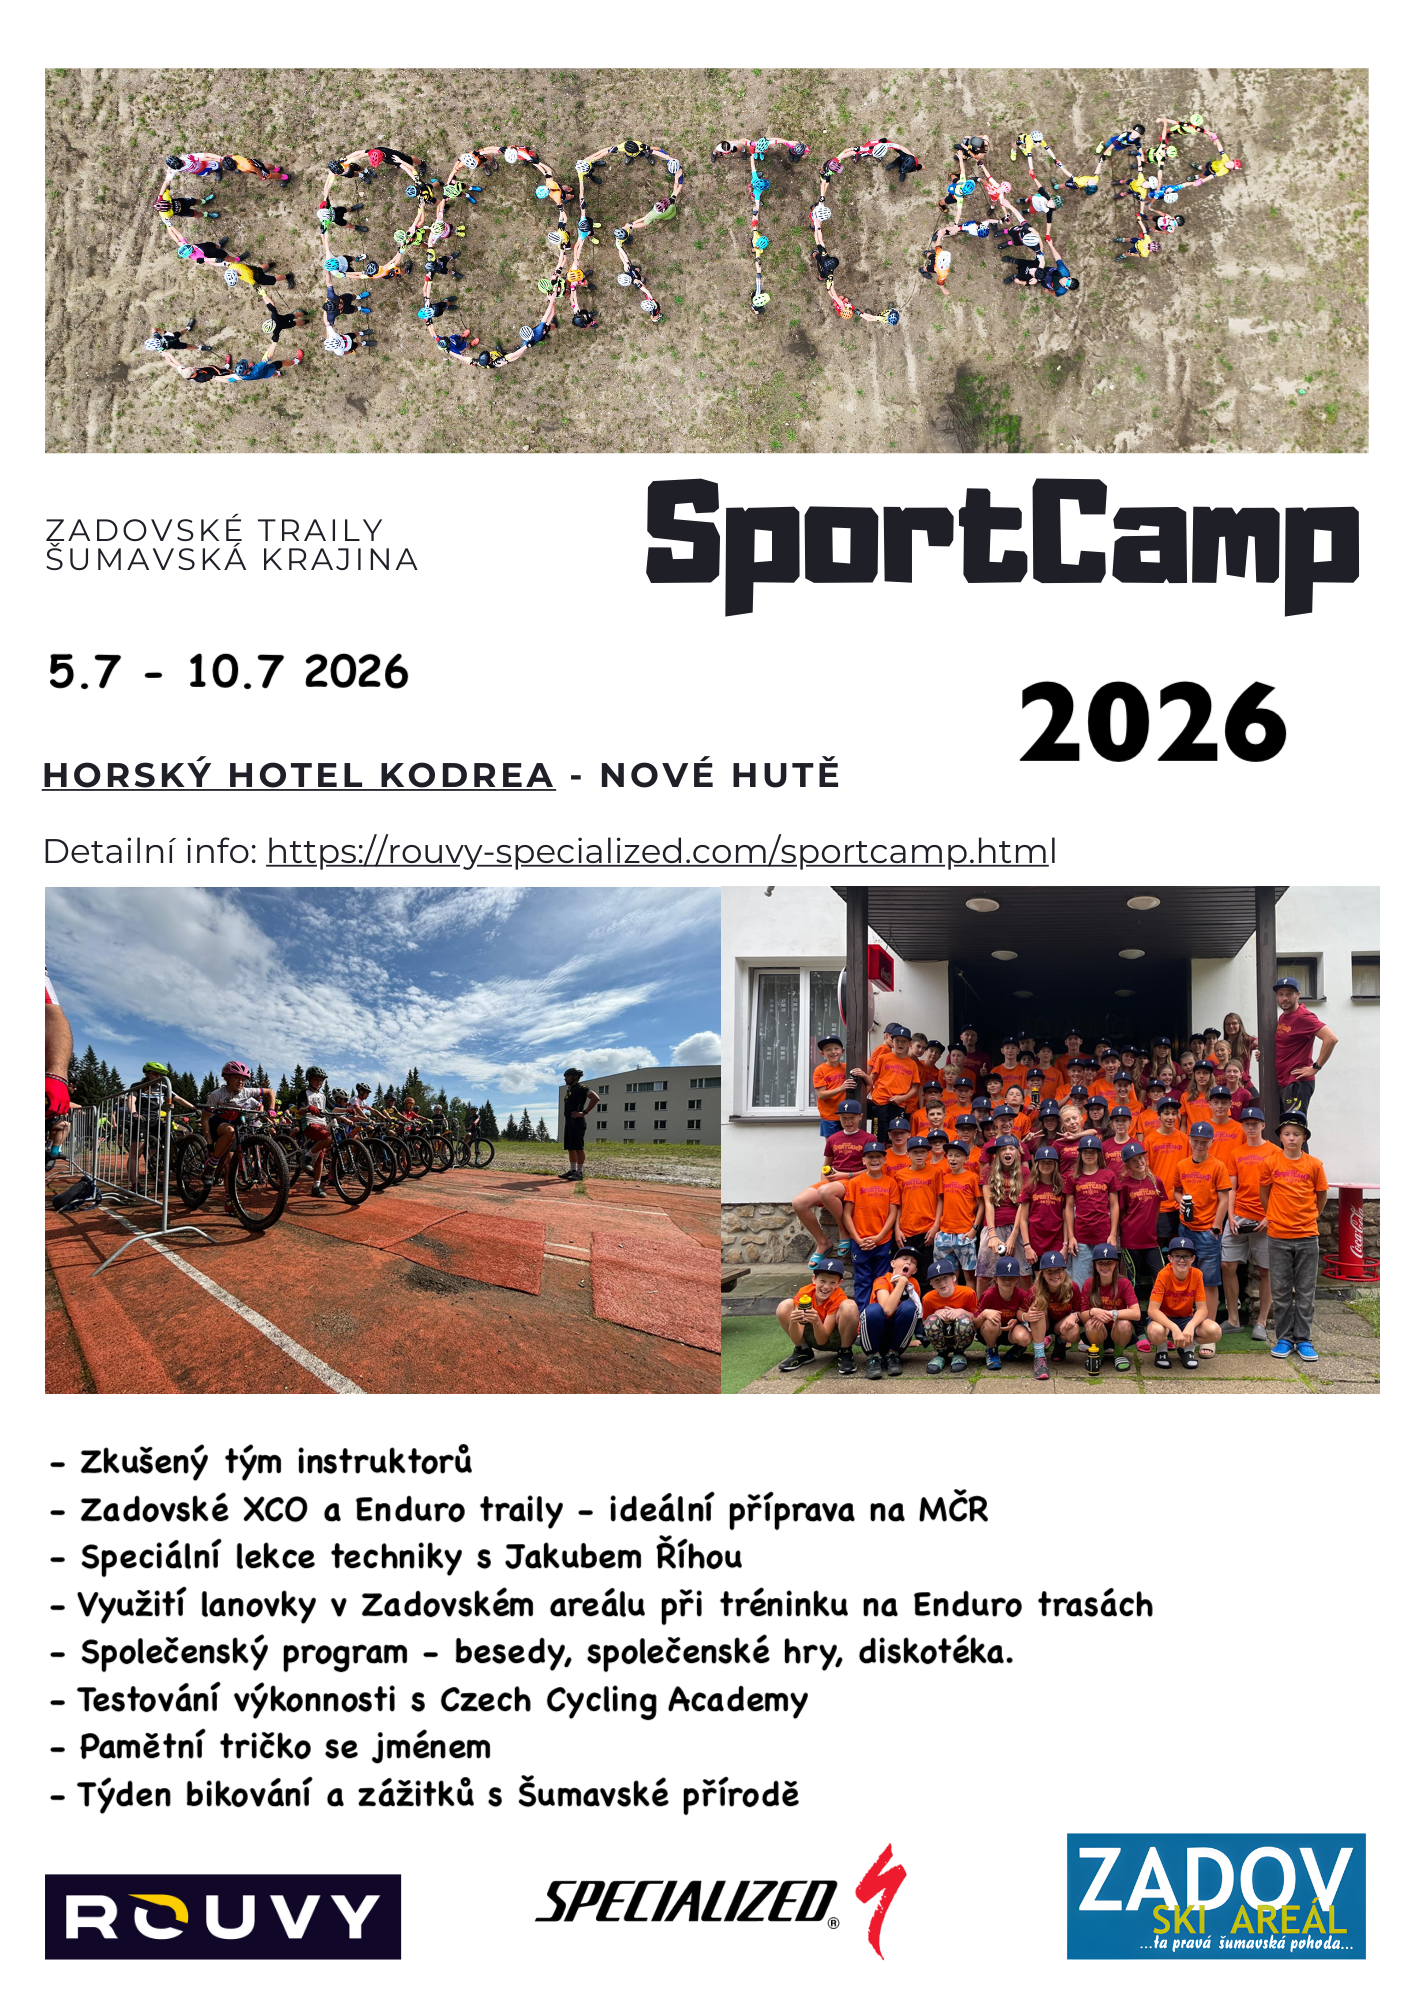
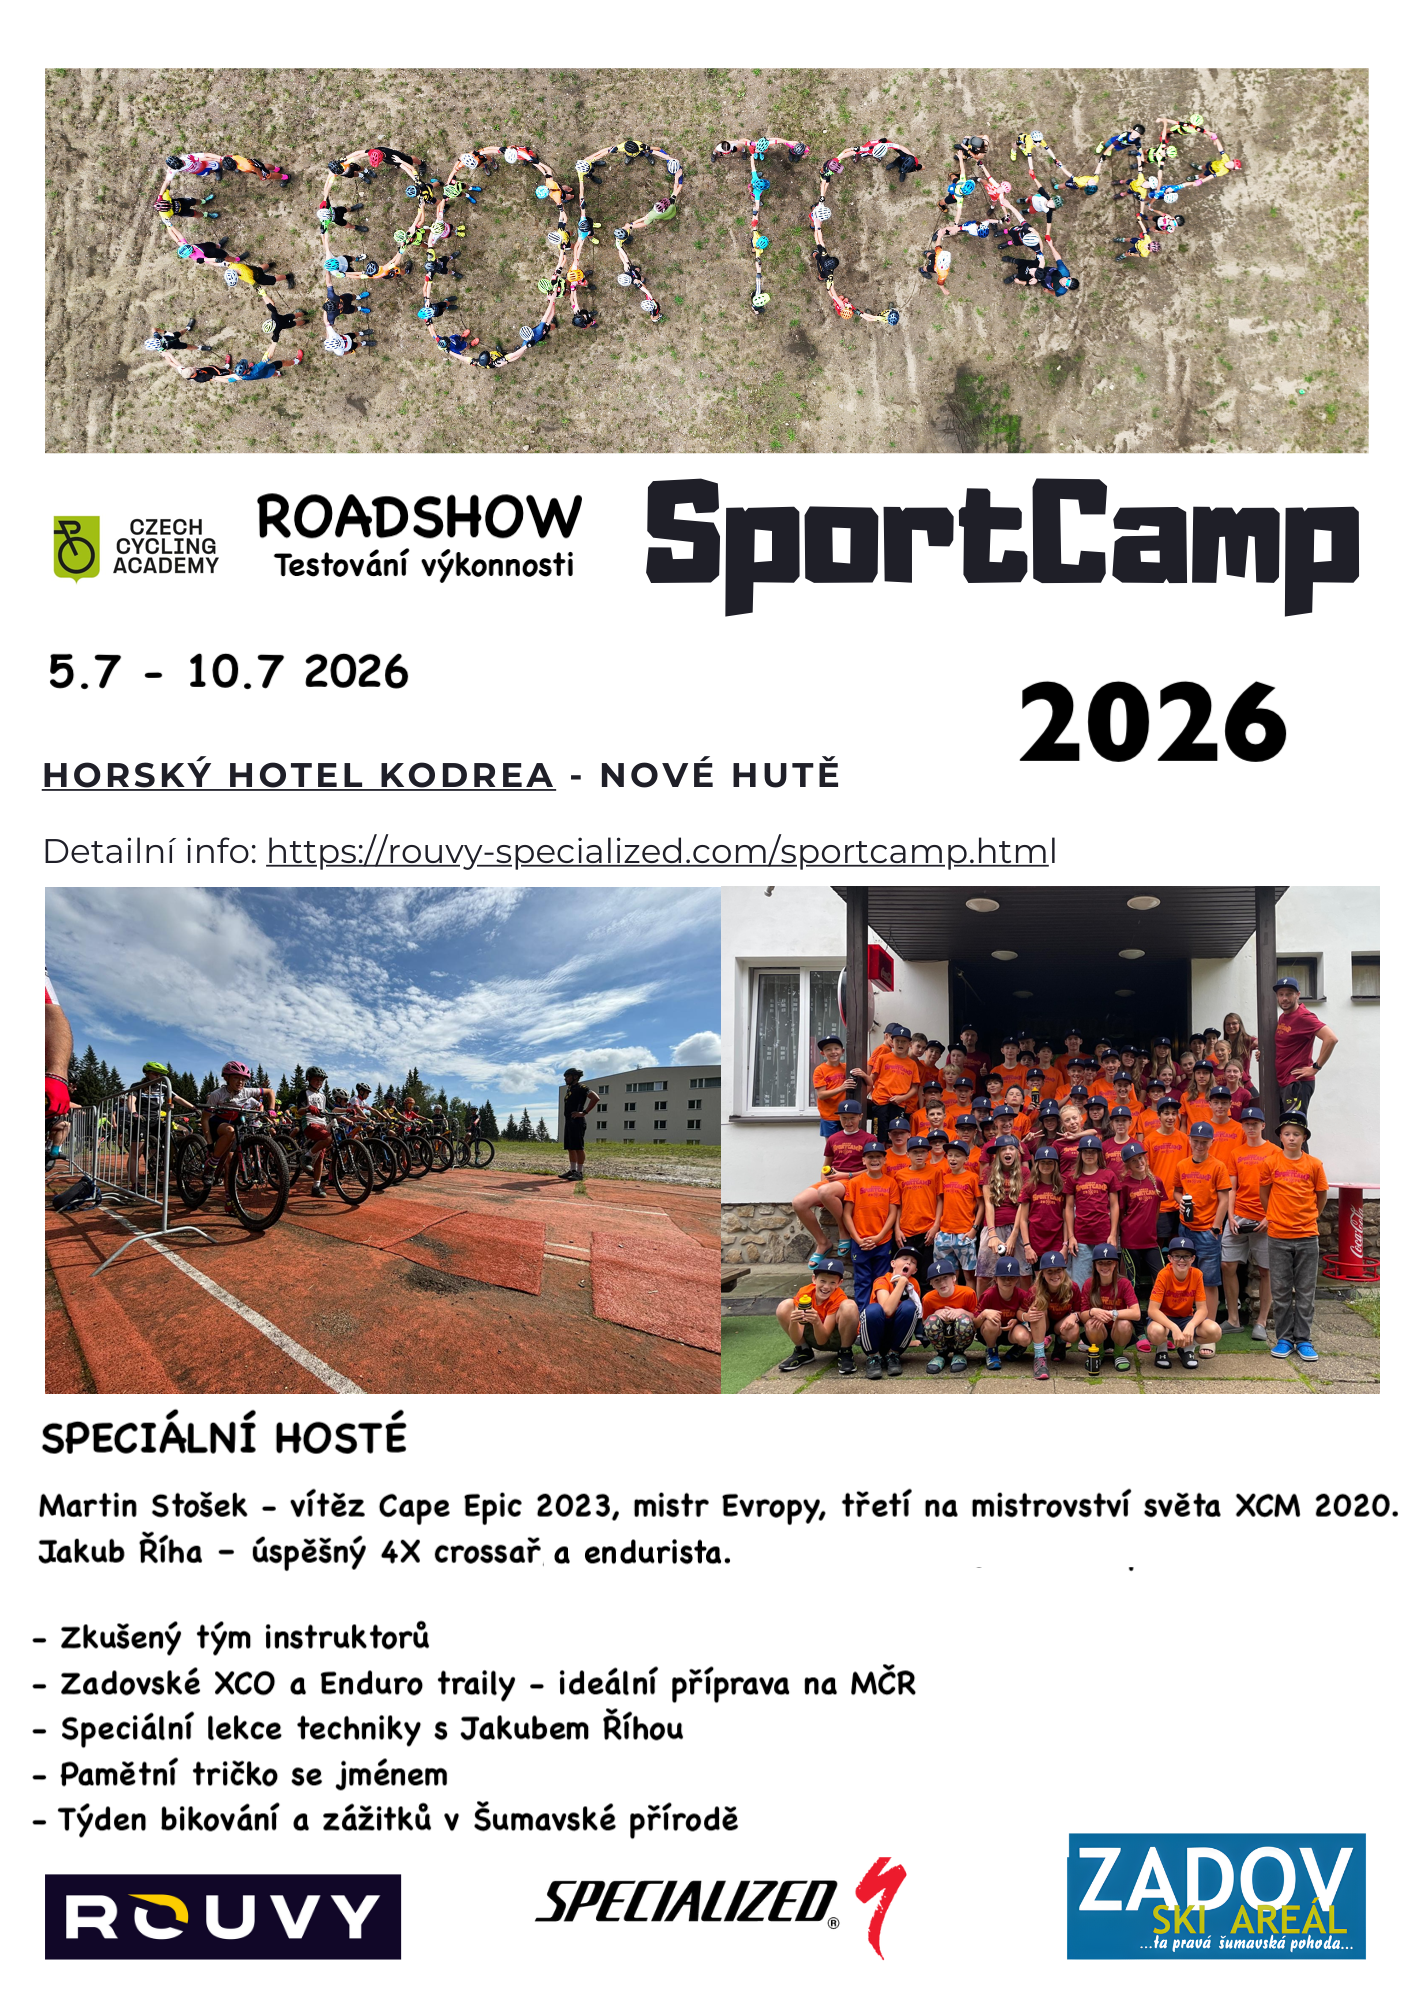
Upraven letáček
Upraven letáček a korekce chyb a překlepů

Changed region(s): [[0.0311, 0.713, 0.9958, 0.93], [0.0311, 0.248, 0.4045, 0.31]]

diff --git a/sportcamp.html b/sportcamp.html
@@ -56,14 +56,14 @@ lang: cs
                 <ul class="list-group list-group-flush">
                     <li class="list-group-item"><span class="font-weight-bold">Termín:</span> 5.7. – 10.7.2026</li>
                     <li class="list-group-item"><span class="font-weight-bold">Místo:</span> Zadov </li>
-                    <li class="list-group-item"><span class="font-weight-bold">Motto:</span> Kdo chvíli stál, už stojí opodál….</li>
+                    <li class="list-group-item"><span class="font-weight-bold">Motto:</span> Kdo chvíli stál, už stojí opodál…</li>
                 </ul>
               </div>
     </header>
     <div class="container" id="page-sportcamp-cs">
         <div class="lead mb-4">
             <h4 class="text-center">
-                <strong>27. ročník SportCampu Zadov</strong> aneb trénuj s ROUVY  Cycling Team Vimperk.
+                <strong>27. ročník SportCampu Zadov</strong> aneb trénuj s ROUVY Cycling Team Vimperk.
             </h4>
 
             <p>
@@ -78,7 +78,8 @@ lang: cs
                     <strong>Martin Stošek</strong> – vítěz Cape Epic 2023, mistr Evropy, třetí na mistrovství světa XCM 2020.
                 </p>
                 <p class="mb-2">
-                    <strong>Jakub Říha</strong> – úspěšný 4X crossař, endurista a ve všem, co se jezdí z kopce na kole.
+                    <strong>Jakub Říha</strong> – úspěšný 4X crossař a endurista. 
+                    Pravidelný a velmi oblíbený host kempu. Borec, co dokáže jet z kopce na všem, co má dvě kola :).
                 </p>
                 <p class="mb-0">
                     V rámci kempu proběhne <strong><a href="https://www.czechcyclingacademy.com/roadshow" target="_blank" rel="noopener">Roadshow</a></strong> – testování všeobecné výkonnosti talentů.
@@ -88,7 +89,7 @@ lang: cs
                 Během už poměrně dlouhé historie prošla naším SportCampem řada zajímavých jmen, která se pak prosadila i ve „velké“ cyklistice,
                 jako například <strong>Jan Škarnitzl, Tereza Huříková, Ondřej Cink, Petr Vakoč, Jan Vastl, Martin Stošek nebo Tereza Sásková</strong>. Známá jména se objevila i v řadách instruktorů.
                 Namátkou <strong>Ivan Rybařík, Milan Spěšný, Richard Gasperroti, Tomáš Trunschka, Jakub Říha, Tomáš Král nebo Bára Průdková</strong>.
-                Není to krátký seznam a úspěšných cyklistů má SportCamp stále více. U některých cinkají medaile a u některých radost z pohybu a nově nabytých zkušeností na kole.
+                Není to krátký seznam a úspěšných cyklistů je u nás stále více. U některých cinkají medaile a u některých radost z pohybu a nově nabytých zkušeností na kole.
                 A jsme velmi rádi, že mnozí účastníci se k nám pravidelně vracejí.
             </p>
         </div>
@@ -120,7 +121,7 @@ lang: cs
             <p class="p-2">
                 A aby to nebylo jen o kole, mohou se děti těšit na cvičení a protahování, tradiční MTBO a oblíbené hry venku i uvnitř. Starší skupiny pak pod vedením instruktorů proniknou
                 i do tajů strečinku, regenerace a zdravé stravy. Za odborného dohledu týmových mechaniků se mohou zlepšit v údržbě kola.
-                Neopomeneme ani společenský program. Po roce 2026 opět chystáme besedu s dalším zajímavým hostem!
+                Neopomeneme ani společenský program. I letos chystáme besedu s dalším zajímavým hostem!
                 A určitě nebude chybět neodmyslitelná <strong>„Diskotéka“.</strong>
             </p>
         </div>
@@ -129,7 +130,7 @@ lang: cs
             <h4>Skupina Kadetů/Kadetek</h4>
             <p>
                 I pro rok 2026 je skupina rychlíků, která přináší nové možnosti.
-                Chceš si vyzkoušet, jaké to je trénovat s týmem Rouvy Cycling teamem? Přijeď za námi na Sportcamp.
+                Chceš si vyzkoušet, jaké to je trénovat s cyklistickým týmem ROUVY? Přijeď za námi na SportCamp.
                 Seznámíš se se stávajícími studenty a trenéry sportovního gymnázia ve Vimperku. Naši trenéři tě provedou přípravou na MČR.
                 Určeno pro děti v kategorii kadetů a starších žáků. Uvažuješ o studiu na <a href="https://gvimperk.cz/">sportovním gymnáziu ve Vimperku</a>?
                 <br />
@@ -161,11 +162,11 @@ lang: cs
 
             <div class="alert alert-info" role="alert">
                 <h4><small>Celková cena za SPORT CAMP 2026 je</small> 9000 Kč!!!</h4>
-                Přihlašování na <strong>SportCamp Zadov bude spuštěno začátkem prosince 2025</strong>
+                Přihlašování na <strong>SportCamp Zadov bude spuštěno začátkem prosince 2025</strong>.
                 Doporučujeme zájemcům zaslat přihlášku a platbu co nejdříve, neboť počet
-                účastníků je omezen na maximálně 70 osob a kapacita se zpravidal velmi rychle zaplní<i></i>. 
-                <strong>Přihlašování na SPORT CAMP končí - 24.5.2026</strong>.
-                Přihláška je platná po zaplacení uvedené částky - <strong>nejdéle však 14 dnů po odeslání přihlášky. Pokud nebude přihláška do 14 dnů od příhlášení uhrazena bude přihláška stornována.</strong>
+                účastníků je omezen na maximálně 70 osob a kapacita se zpravidla velmi rychle zaplní.
+                <strong>Přihlašování na SPORT CAMP končí – 24. 5. 2026</strong>.
+                Přihláška je platná po zaplacení uvedené částky – <strong>nejdéle však 14 dnů po odeslání přihlášky. Pokud nebude přihláška do 14 dnů od přihlášení uhrazena, bude přihláška stornována.</strong>
                 <br />
                 <br />
                 <h5>Platební údaje</h5>
@@ -174,12 +175,12 @@ lang: cs
                     <li>Variabilní symbol – rodné číslo</li>
                     <li>Ve zprávě pro příjemce uveďte jméno a příjmení dítěte.</li>
                 </ul>
-                <p>Zájemci o přihlášení do skuoiny kadetů/kadetek, která bude trénovat společně se sportovním Gymnáziem Vimperk zaškrtnou v přihlášce volbu <strong>Kadet SG Vimperk</strong>. Počet míst v této skupině je omezen na maximálně 10 členů.</p>
-                <p>Pro všechny účastníky připravujem <strong>pamětní trička se jménem</strong>. Tak prosíme o pozornost při výběru správené velikosti v přihášce, třička se budou pak špatně vyměňovat :).</p>
+                <p>Zájemci o přihlášení do skupiny kadetů/kadetek, která bude trénovat společně se sportovním gymnáziem ve Vimperku, zaškrtnou v přihlášce volbu <strong>Kadet SG Vimperk</strong>. Počet míst v této skupině je omezen na maximálně 10 členů.</p>
+                <p>Pro všechny účastníky připravujeme <strong>pamětní trička se jménem</strong>. Tak prosíme o pozornost při výběru správné velikosti v přihlášce, trička se pak budou špatně vyměňovat :).</p>
             </div>
 
             <div class="alert alert-warning">
-                <h5>Storno Podmínky</h5>
+                <h5>Storno podmínky</h5>
                 Pokud dojde ke zrušení pobytu ze strany účastníka, činí poplatek za zrušení
                 <ul>
                     <li>Do 15.5.2026 - 0% ze zaplacené částky (celá částka vrácena).</li>
@@ -200,7 +201,7 @@ lang: cs
                 <li class="list-group-item"> Ubytování - nástup v neděli cca 17:00, konec v pátek cca 17:00</li>
                 <li class="list-group-item"> Stravu - plná penze, druhá večeře, pitný režim. Začínáme v neděli večeří a končíme v pátek večeří.</li>
                 <li class="list-group-item"> Pamětní tričko se jménem.</li>
-                <li class="list-group-item"> Zkušený tým instruktorů - prověřený trenérský kolektiv složený  primárně z bývalých nebo stále aktivních závodníků.</li>
+                    <li class="list-group-item"> Zkušený tým instruktorů – prověřený trenérský kolektiv složený primárně z bývalých nebo stále aktivních závodníků.</li>
                 <li class="list-group-item"> Pojištění účastníků.</li>
                 <li class="list-group-item"> Zadovské XCO a Enduro terény – ideální příprava na MČR.</li>
                 <li class="list-group-item"> Doprovodné akce – lanovka, rozhledna, lanové centrum – díky za podporu <a href="https://www.lazadov.cz/la/">Lyžařskému Areálu Zadov</a>.</li>
@@ -213,7 +214,7 @@ lang: cs
 
             <hr>
 
-            <h4>Kontaktní email</h4>
+            <h4>Kontaktní e-mail</h4>
 
             <ul class="list-group mb-4">
                 <li class="list-group-item list-group-item-dark font-weight-bold"> Ondřej Matějka</li>
